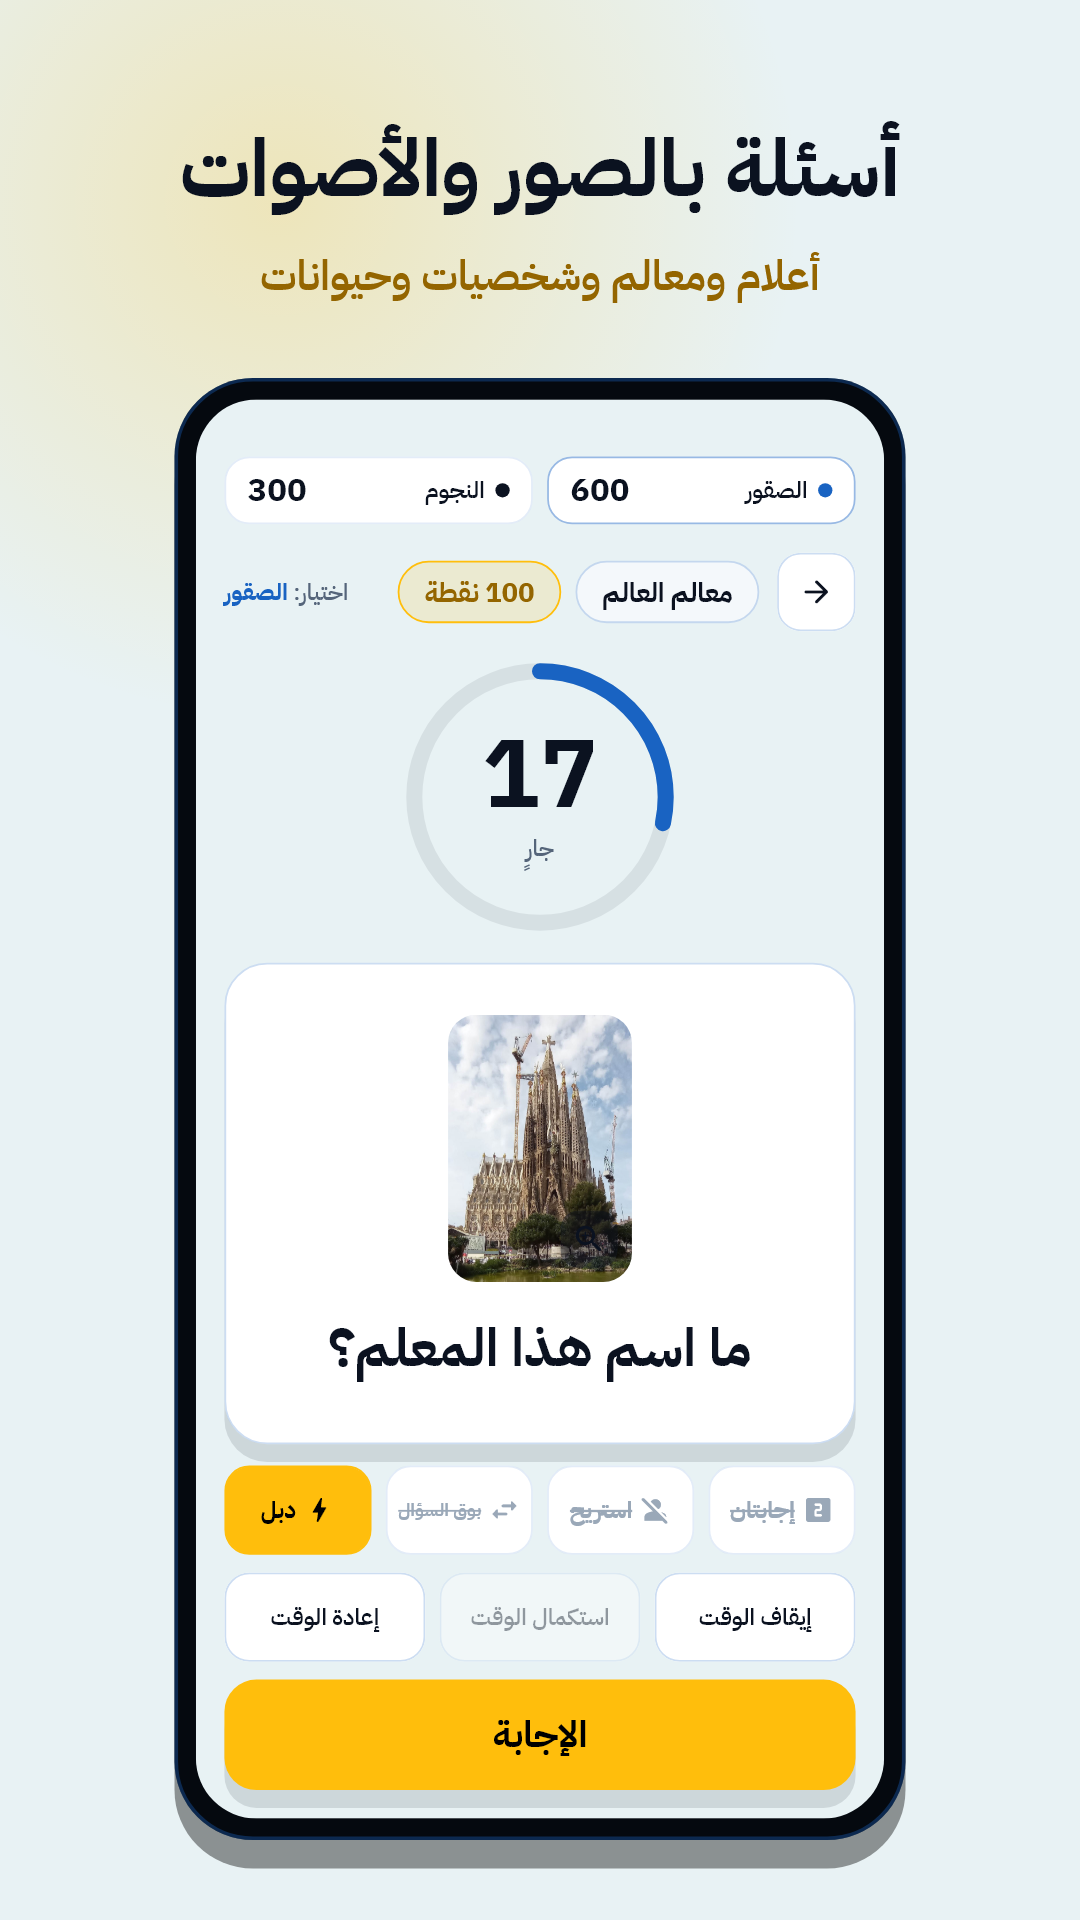
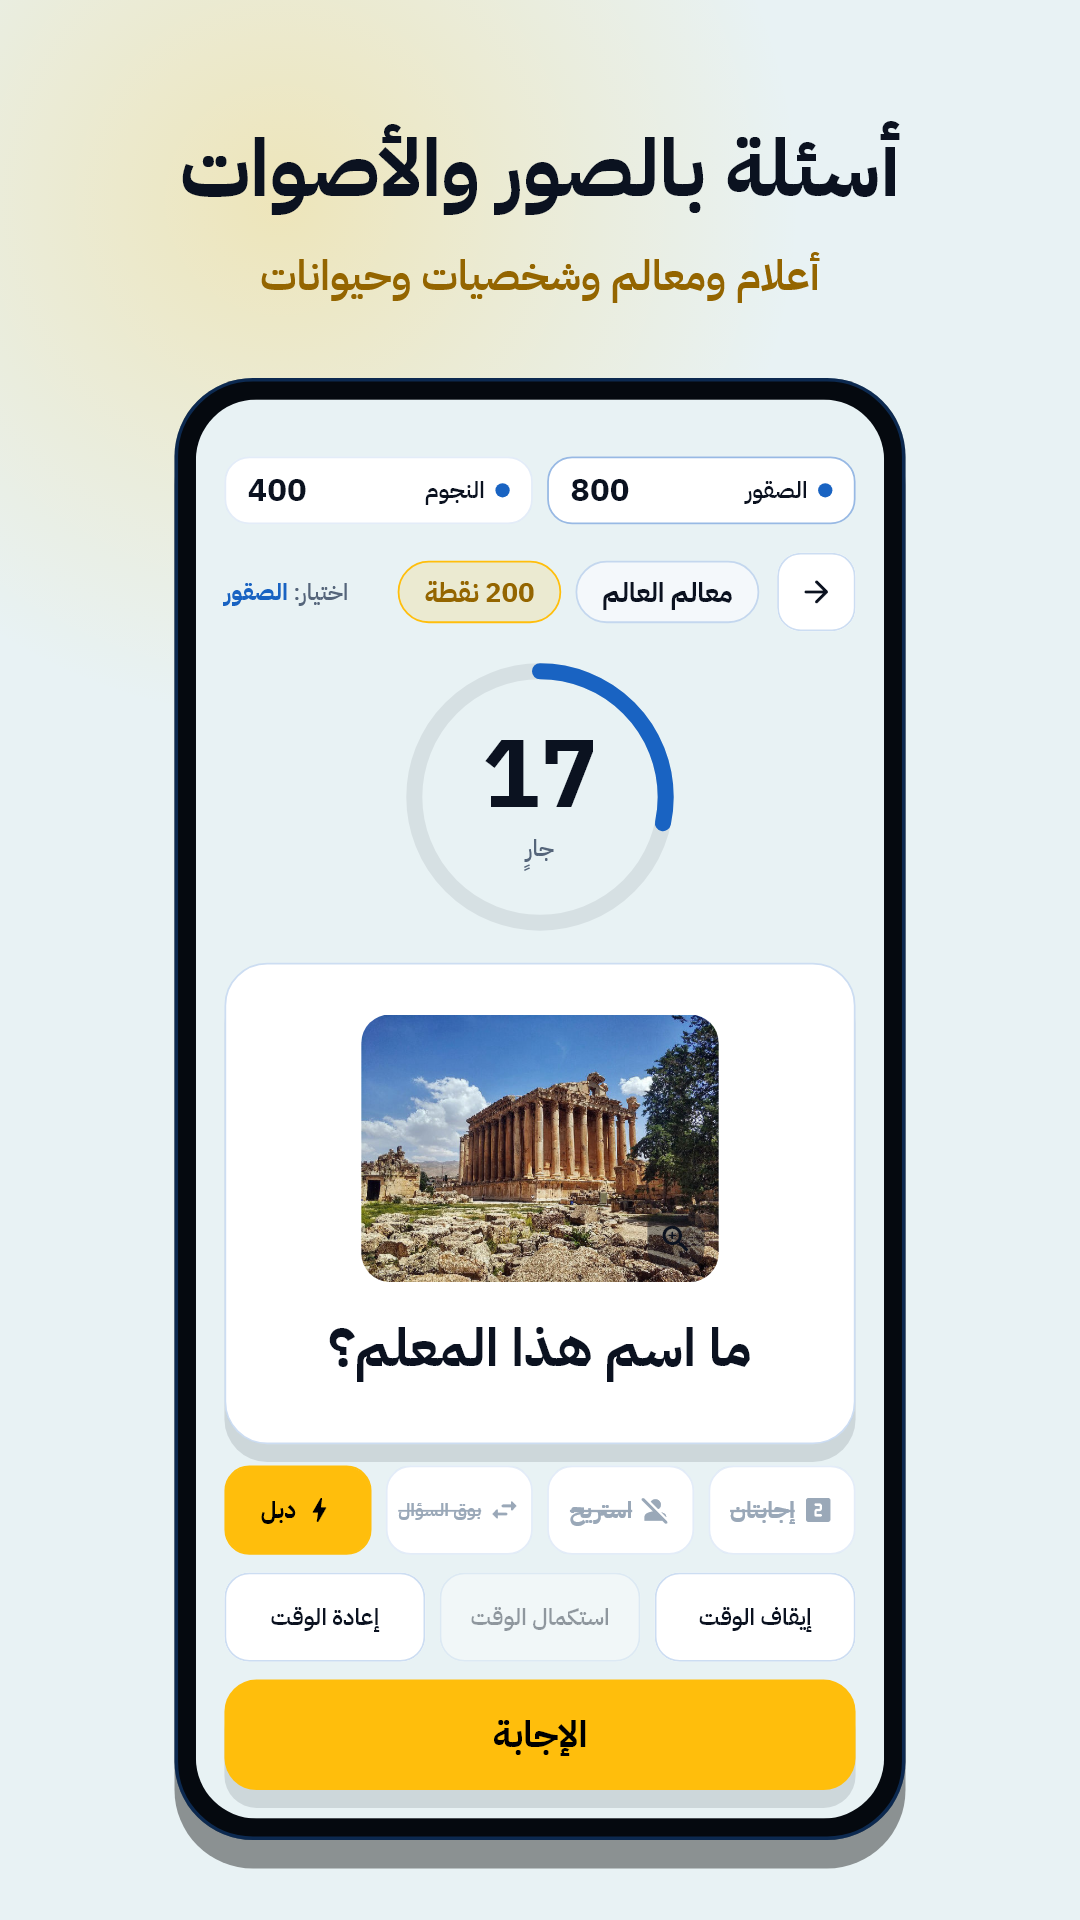
Board on 200, 400 and 600: home page and screenshots

Changed region(s): [[0.3361, 0.5312, 0.6722, 0.6875], [0.2139, 0.25, 0.2444, 0.2812]]

diff --git a/home.html b/home.html
@@ -78,7 +78,7 @@
   <ol class="steps">
     <li>سمّوا الفريقين، واختاروا من يبدأ.</li>
     <li>اختاروا 6 فئات من بين 52 فئة.</li>
-    <li>تظهر لوحة من 36 سؤالاً: من 100 إلى 600 نقطة لكل فئة، والأصعب بنقاط أكثر.</li>
+    <li>تظهر لوحة من 36 سؤالاً: سؤالين 200 وسؤالين 400 وسؤالين 600 لكل فئة، والأصعب بنقاط أكثر.</li>
     <li>الفريق صاحب الدور يختار سؤالاً، ويجاوب قبل انتهاء الوقت.</li>
     <li>المقدّم يكشف الإجابة ويحدد من جاوب صح بضغطة، وتنتقل النقاط.</li>
     <li>بعد آخر سؤال يفوز الفريق صاحب النقاط الأعلى.</li>

diff --git a/index.html b/index.html
@@ -78,7 +78,7 @@
   <ol class="steps">
     <li>سمّوا الفريقين، واختاروا من يبدأ.</li>
     <li>اختاروا 6 فئات من بين 52 فئة.</li>
-    <li>تظهر لوحة من 36 سؤالاً: من 100 إلى 600 نقطة لكل فئة، والأصعب بنقاط أكثر.</li>
+    <li>تظهر لوحة من 36 سؤالاً: سؤالين 200 وسؤالين 400 وسؤالين 600 لكل فئة، والأصعب بنقاط أكثر.</li>
     <li>الفريق صاحب الدور يختار سؤالاً، ويجاوب قبل انتهاء الوقت.</li>
     <li>المقدّم يكشف الإجابة ويحدد من جاوب صح بضغطة، وتنتقل النقاط.</li>
     <li>بعد آخر سؤال يفوز الفريق صاحب النقاط الأعلى.</li>
